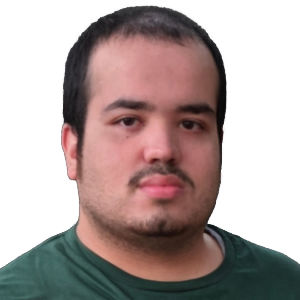
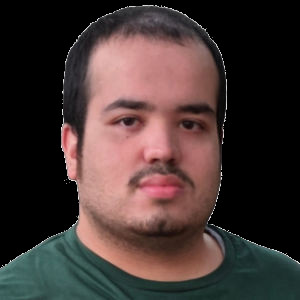
Clean some redundant code

diff --git a/code-atlus/src/components/Sidebar/Sidebar.tsx b/code-atlus/src/components/Sidebar/Sidebar.tsx
@@ -8,7 +8,7 @@ interface SidebarProps {
 }
 
 const Sidebar: React.FC<SidebarProps> = ({ isOpen }) => {
-const sidebarVisibility = `sidebar${!isOpen ? '-collapsed' : ''}`;
+const sidebarVisibility = `sidebar${!isOpen ? '' : '-collapsed'}`;
   
   return (
       <aside 
@@ -37,18 +37,22 @@ const sidebarVisibility = `sidebar${!isOpen ? '-collapsed' : ''}`;
           >
             Portfolio
           </Link>
+          {/* 
           <Link 
             to="/#Contact-Me"
             className="sidebar-buttons"
+            id="button-disabled"
           >
             Contact Me
           </Link>
           <Link 
             to="/Osmium-Bits"
             className="sidebar-buttons"
+            id="button-disabled"
           >
             Osmium Bits
           </Link>
+          */}
     </aside>
   );
 }

diff --git a/code-atlus/src/components/Home/Home.tsx b/code-atlus/src/components/Home/Home.tsx
@@ -29,7 +29,11 @@ function HomePage() {
             >
               Resume
             </a>
-            <Link to="/Portfolio-Collage" className="mainpage-buttons">
+            <Link 
+            //to="/Portfolio-Collage" 
+            className="mainpage-buttons" 
+            id="button-disabled"
+            >
               Collage Portfolio
             </Link>
         </ul>

diff --git a/code-atlus/src/components/AboutMe/AboutMe.tsx b/code-atlus/src/components/AboutMe/AboutMe.tsx
@@ -19,7 +19,7 @@ function AboutMe() {
             <div className="aboutme-container-img-button"> 
               <figure>
                 <img
-                  src="/picture/profile-icon-3b.jpg"
+                  src="/picture/profile-icon-2b.png"
                   alt="A picture of Obed Negron"
                 />
               </figure>

diff --git a/code-atlus/src/components/Header/Header.tsx b/code-atlus/src/components/Header/Header.tsx
@@ -47,9 +47,3 @@ const Header: React.FC<HeaderProps> = ({ onToggleSidebar }) => {
 }
 
 export default Header;
-          <Link 
-          to="/"
-          className="sidebar-buttons"
-          >
-          Home
-          </Link>
